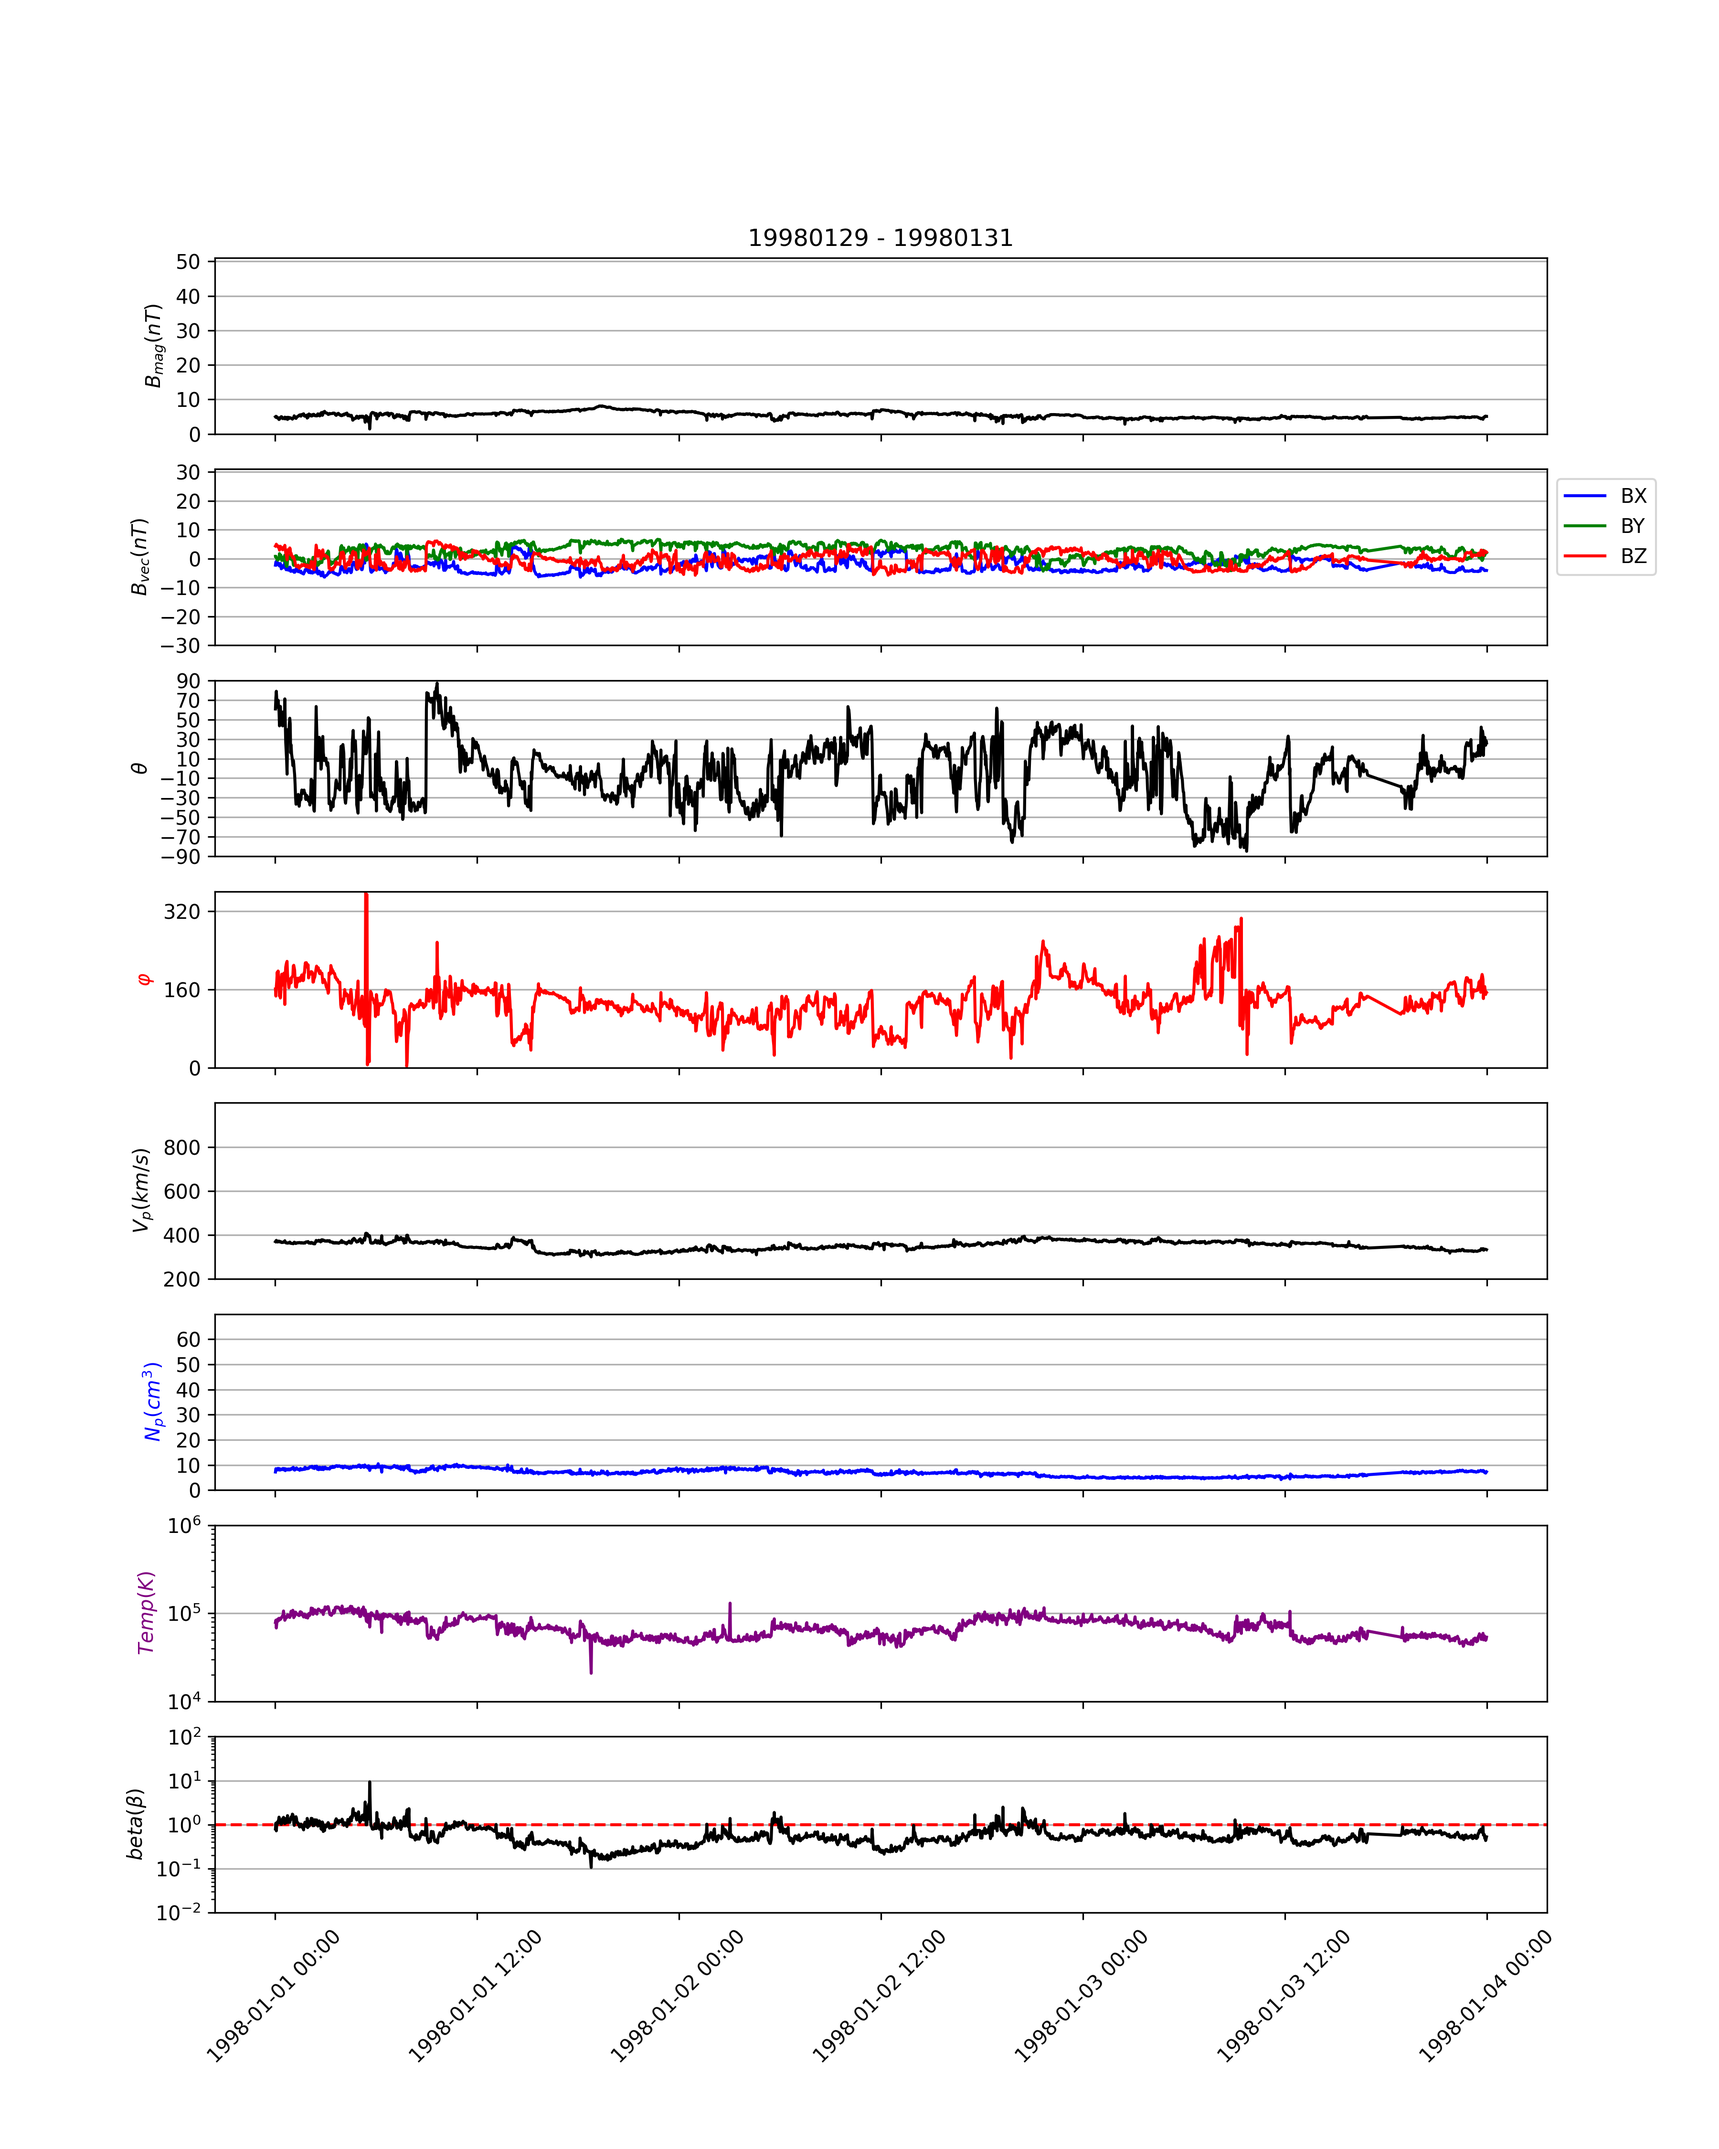
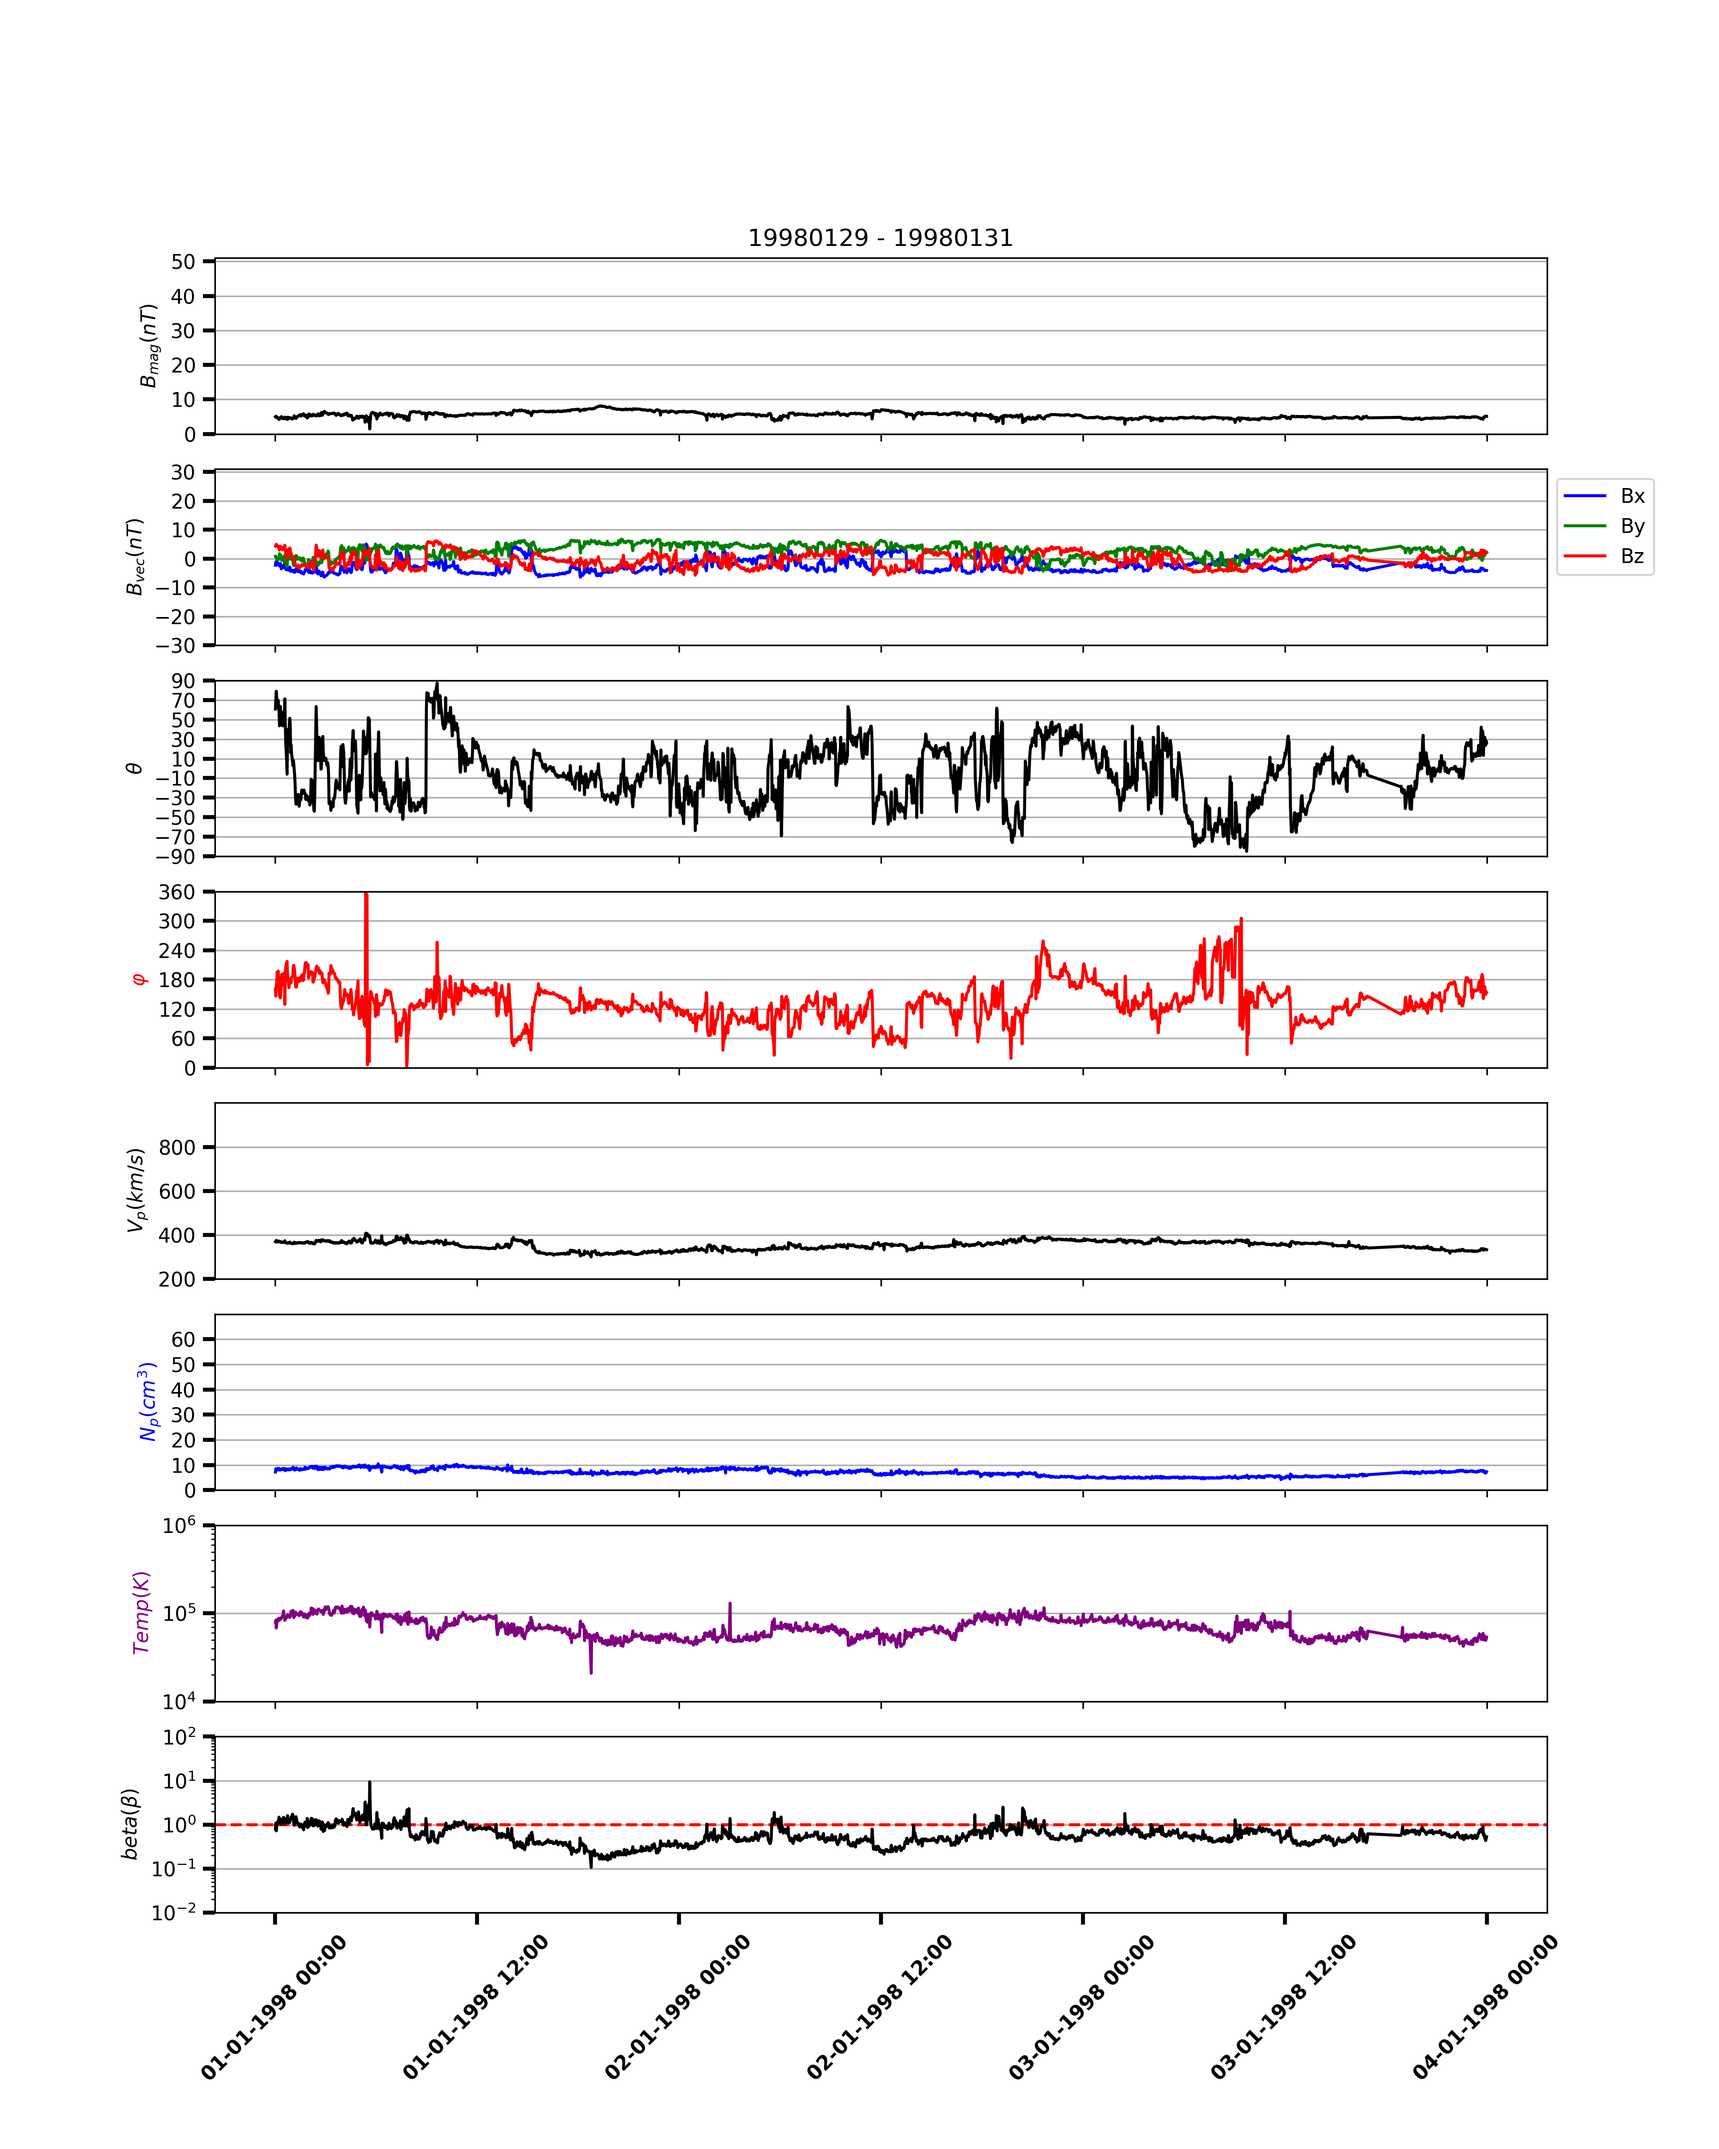
logic combine ready to implement 2

diff --git a/modules/plotter.py b/modules/plotter.py
@@ -46,7 +46,8 @@ class Plotting:
         # plt.gca().xaxis.set_major_formatter(h_fmt)
 
         # plt.xlim(time_range[0], time_range[-1])
-        plt.xticks(rotation=45) 
+        plt.xticks(rotation=45,fontweight='bold') 
+
 
           
         ax[0].set_title(self.title) 
@@ -55,6 +56,7 @@ class Plotting:
         
         ax[0].set_ylim(0,51)
         ax[0].set_yticks(range(0, 51, 10))
+        ax[0].yaxis.set_tick_params(width=2, length=6, labelcolor='black')
         # ax[0].set_yticks(np.arange(0, 51, 20))
         ax[0].set_ylabel(r'$B_{mag} (nT)$')
         ax[0].plot(time_range,B_magnitude,color='black')
@@ -66,10 +68,10 @@ class Plotting:
         ax[1].set_ylim(-30,31)
         ax[1].set_yticks(np.arange(-30, 31, 10))
         ax[1].set_ylabel(r'$B_{vec} (nT)$')
-        # ax[1].tick_params(axis='x',)
-        ax[1].plot(time_range,Bx,label ='BX',color='blue')
-        ax[1].plot(time_range,By,label ='BY',color='green')
-        ax[1].plot(time_range,Bz,label ='BZ',color='red')
+        ax[1].yaxis.set_tick_params(width=2, length=6, labelcolor='black')
+        ax[1].plot(time_range,Bx,label ='Bx',color='blue')
+        ax[1].plot(time_range,By,label ='By',color='green')
+        ax[1].plot(time_range,Bz,label ='Bz',color='red')
         ax[1].legend(loc="upper left",bbox_to_anchor=(1, 1))
 
         ax[1].grid(True, axis='y')
@@ -83,7 +85,7 @@ class Plotting:
         ax[2].set_yticks(np.arange(-90, 91, 20))
         # ax[2].yaxis.set_major_locator(MultipleLocator(10))
         # ax[2].yaxis.set_major_formatter(FormatStrFormatter('%d'))
-
+        ax[2].yaxis.set_tick_params(width=2, length=6, labelcolor='black')
         ax[2].set_ylabel(r'$ θ $')
         
         ax[2].plot(time_range,teta_angle,color='black')
@@ -94,7 +96,8 @@ class Plotting:
 
         #Phi angle
         ax[3].set_ylim(0, 360)
-        ax[3].set_yticks(range(0, 361, 160))
+        ax[3].set_yticks(range(0, 361, 60))
+        ax[3].yaxis.set_tick_params(width=2, length=6, labelcolor='black')
         ax[3].set_ylabel(r'$ φ $',color='red')
    
         ax[3].plot(time_range,phi_angle,color='red')
@@ -106,6 +109,7 @@ class Plotting:
         #plotting vp -> pvec
         ax[4].set_ylim(200,1000)
         ax[4].set_yticks(range(200, 1000, 200))
+        ax[4].yaxis.set_tick_params(width=2, length=6, labelcolor='black')
         ax[4].set_ylabel(r'$V_{p} (km/s)$')
         ax[4].plot(time_range,Vp_pvec,color='black')
         ax[4].grid(True, axis='y')
@@ -115,6 +119,7 @@ class Plotting:
         #Plotting for Np -> Proton density
         ax[5].set_ylim(0,70)
         ax[5].set_yticks(range(0, 70, 10))
+        ax[5].yaxis.set_tick_params(width=2, length=6, labelcolor='black')
         ax[5].set_ylabel(r'$N_{p} (cm^{3})$',color='blue')
         ax[5].plot(time_range,Np_pdensity,color='blue')
         ax[5].grid(True, axis='y')
@@ -143,7 +148,7 @@ class Plotting:
         # Set y-axis limits to span the range of orders of magnitude
       
         ax[6].set_ylim(10**y_min_order, 10**y_max_order)
-        # ax[6].set_yticks(range(10**y_min_order, 10**y_max_order,10**1))
+        ax[6].yaxis.set_tick_params(width=2, length=6, labelcolor='black')
         ax[6].plot(time_range,Temperature,color='purple')
         ax[6].set_ylabel(r'$Temp (K)$',color='purple')
         ax[6].grid(True, axis='y')
@@ -155,19 +160,20 @@ class Plotting:
         ax[7].axhline(y=1, color='r',linestyle='--')
         ax[7].plot(time_range,Plasma_beta,color='black')
         ax[7].set_ylabel(r'$beta (β)$')
-        # ax[7].set_xlabel('Time (in UT, November,2003)')
+        ax[7].yaxis.set_tick_params(width=2, length=6, labelcolor='black')
 
         
         ax[7].grid(True, axis='y')
 
    
-        date_formatter = mdates.DateFormatter('%Y-%m-%d %H:%M')
+        date_formatter = mdates.DateFormatter('%d-%m-%Y %H:%M')
         ax[7].xaxis.set_major_formatter(date_formatter)
 
         ax[7].xaxis.set_major_locator(mdates.HourLocator([0,12]))
 
-        # ax[7].tick_params(axis='x', rotation=45)
-    
+       
+        
+  
         
         plt.savefig(f"{self.ad}/{self.title}.png",dpi =300)  # Save as PNG format
         plt.close(fig)
